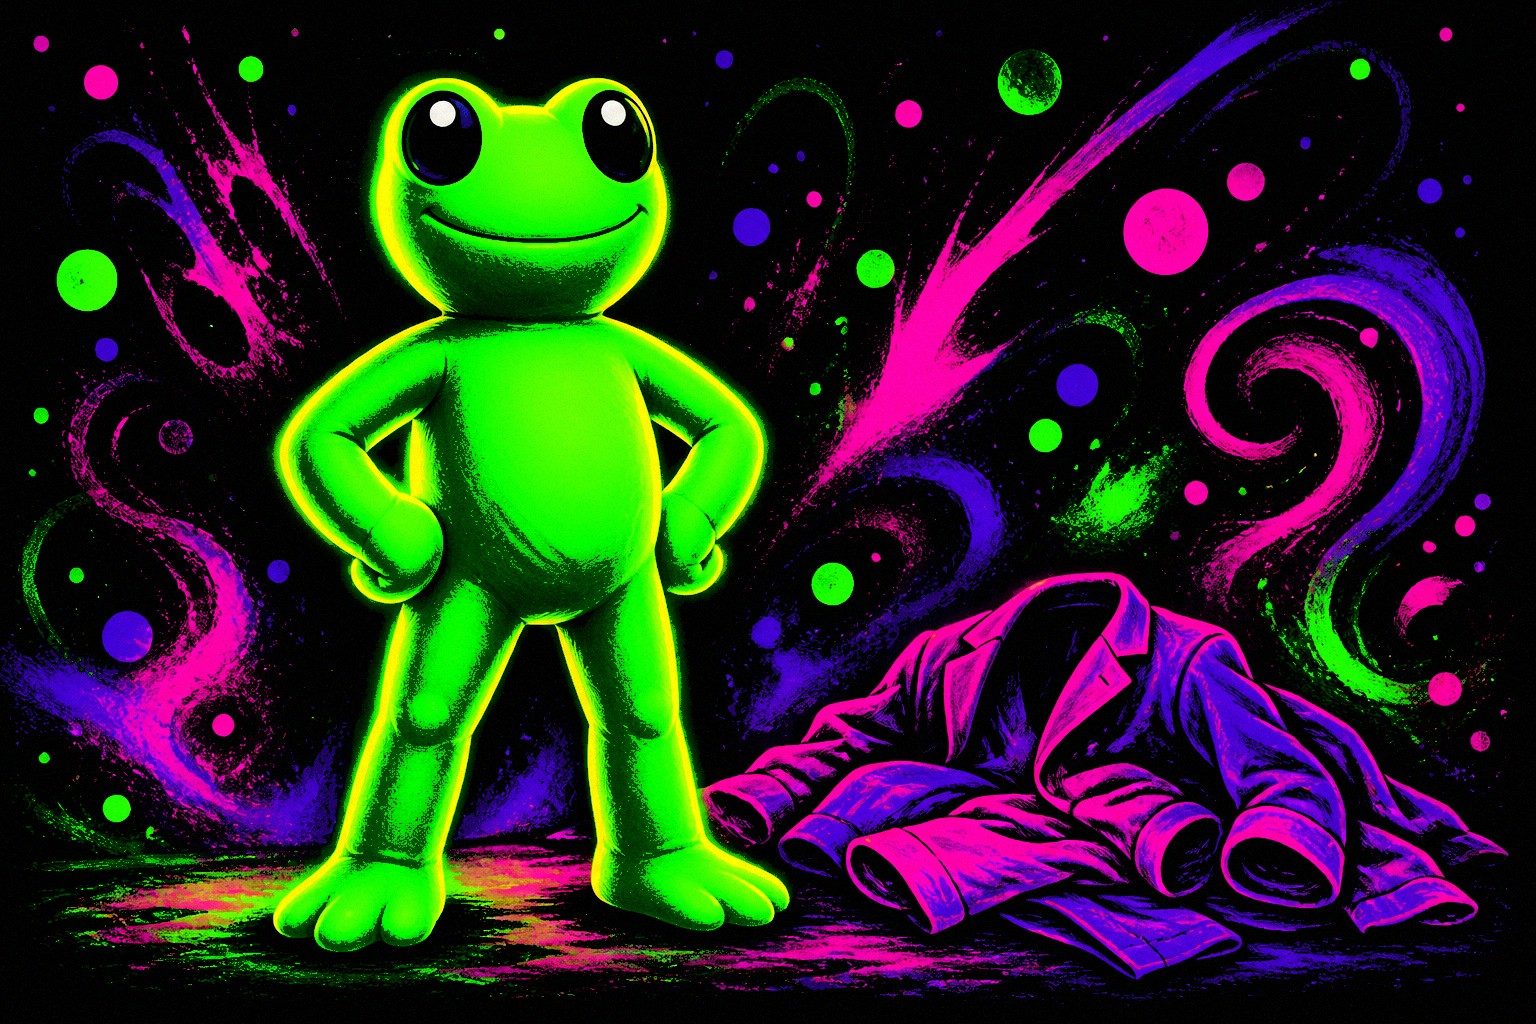
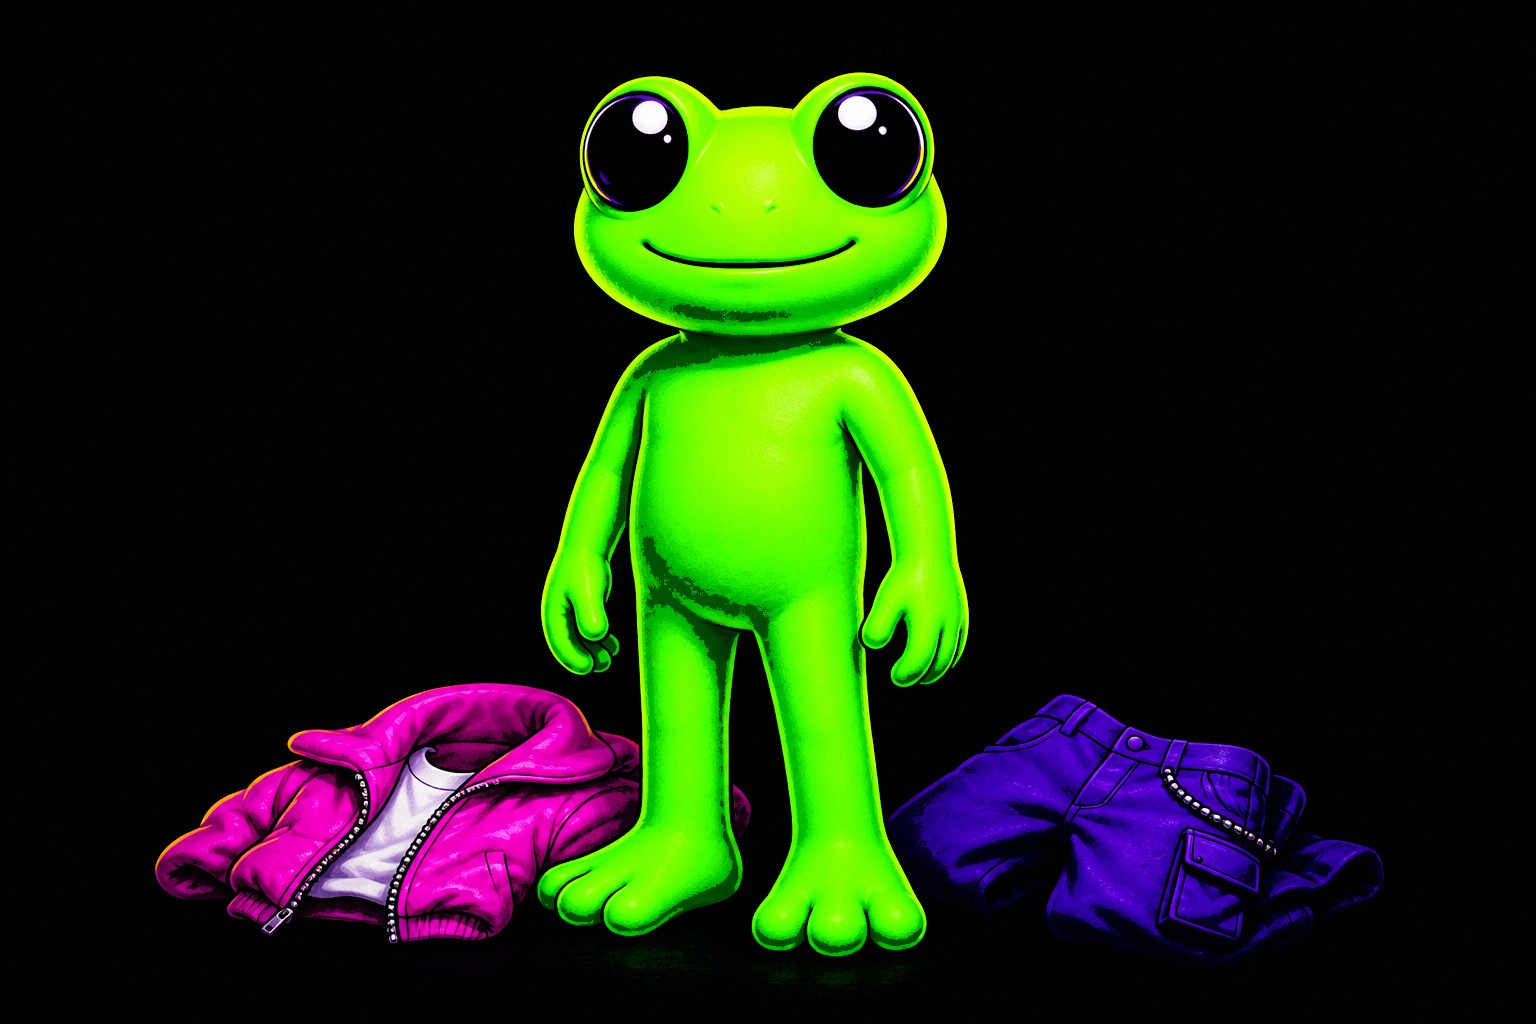
feat: lock frog/dog identity via character bibles
Add frog and dog master contact sheets, then regenerate all five acts
and Hero cutout from those identity references. Include face and acts
contact sheets for consistency QA before publish.

diff --git a/src/components/hero/FrogLayer.tsx b/src/components/hero/FrogLayer.tsx
@@ -63,8 +63,8 @@ export function FrogLayer() {
             ref={imgRef}
             src="/assets/hero/hero-frog.png"
             alt="嗷嗚計畫青蛙角色"
-            width={622}
-            height={1404}
+            width={642}
+            height={1426}
             fetchPriority="high"
             decoding="async"
             className="hero-frog h-[min(108svh,980px)] w-auto max-w-none object-contain object-bottom md:h-[min(112svh,1080px)]"
